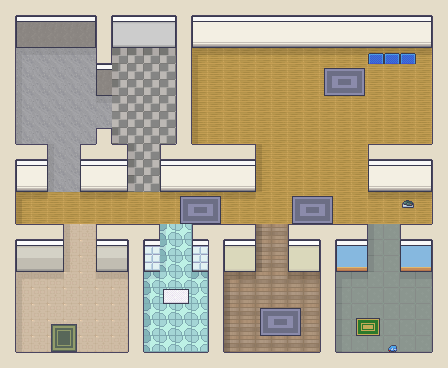
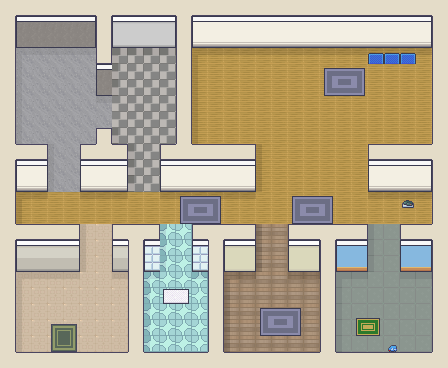
Clean up every Drill sprite: centre wall art, remove all overlaps and wall crossings, and rearrange the rooms that did not fit

Changed region(s): [[0.125, 0.5978, 0.25, 0.7473]]

diff --git a/src/core/drill-items.ts b/src/core/drill-items.ts
@@ -30,41 +30,41 @@ export const DRILL_SECONDS = 60;
 export const DRILL_ITEMS: DrillItem[] = [
   // living room
   { id: 'photos', name: 'family photos', room: 'living room', weight: 8, why: 'Photos cannot be replaced, and the CFA says to take them.', x: 25.6, y: 8.2 },
-  { id: 'television', name: 'television', room: 'living room', weight: -10, why: 'A television is heavy, slow to carry and replaceable.', x: 21.5, y: 2.9 },
-  { id: 'console', name: 'games console', room: 'living room', weight: -10, why: 'A games console takes room in the car that water or a blanket needs.', x: 20.4, y: 3.6 },
-  { id: 'painting', name: 'framed painting', room: 'living room', weight: -10, why: 'A large frame takes two hands and most of a boot.', x: 25.7, y: 2.55 },
-  { id: 'boardgame', name: 'box of toy blocks', room: 'living room', weight: 0, why: 'Toys do no harm, and do not help you get out.', x: 21.6, y: 5.1 },
-  { id: 'lamp', name: 'floor lamp', room: 'living room', weight: -10, why: 'A floor lamp fills the back seat and helps no one.', x: 26.4, y: 4.3 },
+  { id: 'television', name: 'television', room: 'living room', weight: -10, why: 'A television is heavy, slow to carry and replaceable.', x: 21.5, y: 2.62 },
+  { id: 'console', name: 'games console', room: 'living room', weight: -10, why: 'A games console takes room in the car that water or a blanket needs.', x: 20.8, y: 3.65 },
+  { id: 'painting', name: 'framed painting', room: 'living room', weight: -10, why: 'A large frame takes two hands and most of a boot.', x: 26.0, y: 2.375 },
+  { id: 'boardgame', name: 'box of toy blocks', room: 'living room', weight: 0, why: 'Toys do no harm, and do not help you get out.', x: 21.5, y: 5.6 },
+  { id: 'lamp', name: 'floor lamp', room: 'living room', weight: -10, why: 'A floor lamp fills the back seat and helps no one.', x: 23.5, y: 6.9 },
   // kitchen
-  { id: 'water', name: 'drinking water', room: 'kitchen', weight: 10, why: 'The CFA says to take enough water. Heat and smoke dry you out fast.', x: 13.3, y: 3.35 },
+  { id: 'water', name: 'drinking water', room: 'kitchen', weight: 10, why: 'The CFA says to take enough water. Heat and smoke dry you out fast.', x: 13.45, y: 3.35 },
   { id: 'kettle', name: 'kettle', room: 'kitchen', weight: 0, why: 'A kettle changes nothing either way.', x: 14.5, y: 3.35 },
   { id: 'pet', name: 'pet basket and food', room: 'kitchen', weight: 8, why: 'Pets need space in the car and their own food. The CFA says to plan for them.', x: 12.6, y: 8.7 },
   { id: 'plant', name: 'houseplant', room: 'kitchen', weight: -10, why: 'A plant is a pot of soil in a car full of people.', x: 18.4, y: 8.7 },
   // laundry
-  { id: 'blanket', name: 'wool blanket', room: 'laundry', weight: 10, why: 'The CFA says to keep wool blankets in the car. Wool shields you from radiant heat.', x: 8.5, y: 2.75 },
+  { id: 'blanket', name: 'wool blanket', room: 'laundry', weight: 10, why: 'The CFA says to keep wool blankets in the car. Wool shields you from radiant heat.', x: 7.6, y: 2.75 },
   { id: 'batteries', name: 'spare batteries', room: 'laundry', weight: 8, why: 'Spare batteries keep the radio and torch going. They are on the CFA list.', x: 10.4, y: 3.6 },
-  { id: 'sanitiser', name: 'hand sanitiser', room: 'laundry', weight: 8, why: 'Hand sanitiser and wipes are on the CFA list for days away from home.', x: 7.5, y: 2.7 },
+  { id: 'sanitiser', name: 'hand sanitiser', room: 'laundry', weight: 8, why: 'Hand sanitiser and wipes are on the CFA list for days away from home.', x: 9.6, y: 3.3 },
   // garage
   { id: 'torch', name: 'torch', room: 'garage', weight: 10, why: 'A powerful torch is on the CFA list. Smoke makes midday dark.', x: 1.6, y: 3.5 },
   { id: 'radio', name: 'battery radio', room: 'garage', weight: 10, why: 'A battery radio is on the CFA list. It works when the phone network does not.', x: 2.9, y: 3.5 },
-  { id: 'toolbox', name: 'toolbox', room: 'garage', weight: 0, why: 'A toolbox does nothing for the drive out.', x: 5.0, y: 4.9 },
+  { id: 'toolbox', name: 'toolbox', room: 'garage', weight: 0, why: 'A toolbox does nothing for the drive out.', x: 5.0, y: 4.95 },
   // main bedroom
   { id: 'medicines', name: 'medicines', room: 'main bedroom', weight: 10, why: 'Medicines are the first thing on the CFA list. A pharmacy may be closed for days.', x: 1.5, y: 17.3 },
   { id: 'overnight', name: 'overnight bag and toiletries', room: 'main bedroom', weight: 8, why: 'A change of clothes and toiletries are on the CFA list.', x: 5.4, y: 21.7 },
-  { id: 'pillow', name: 'pillow', room: 'main bedroom', weight: 0, why: 'A pillow is comfort, not readiness.', x: 2.6, y: 17.9 },
-  { id: 'clothes', name: 'long sleeved cotton clothes', room: 'main bedroom', weight: 10, why: 'The CFA says to wear long sleeves in natural fibres. Radiant heat burns through thin clothes.', x: 7.5, y: 19.4 },
+  { id: 'pillow', name: 'pillow', room: 'main bedroom', weight: 0, why: 'A pillow is comfort, not readiness.', x: 3.0, y: 17.6 },
+  { id: 'clothes', name: 'long sleeved cotton clothes', room: 'main bedroom', weight: 10, why: 'The CFA says to wear long sleeves in natural fibres. Radiant heat burns through thin clothes.', x: 7.5, y: 17.2 },
   // bathroom
-  { id: 'firstaid', name: 'first aid kit', room: 'bathroom', weight: 10, why: 'A first aid kit is on the CFA list. Help can be hours away.', x: 12.4, y: 17.3 },
+  { id: 'firstaid', name: 'first aid kit', room: 'bathroom', weight: 10, why: 'A first aid kit is on the CFA list. Help can be hours away.', x: 12.5, y: 17.3 },
   { id: 'masks', name: 'P2 masks', room: 'bathroom', weight: 10, why: 'P2 masks are on the CFA list. Smoke arrives long before flame.', x: 9.5, y: 21.3 },
   // study
-  { id: 'papers', name: 'passport and papers', room: 'study', weight: 10, why: 'Passports, wills and insurance papers are on the CFA list and are hard to replace.', x: 14.4, y: 17.4 },
-  { id: 'laptop', name: 'computer', room: 'study', weight: 0, why: 'A computer is neither help nor harm.', x: 15.2, y: 17.4 },
-  { id: 'memorystick', name: 'memory stick of scanned papers', room: 'study', weight: 8, why: 'The CFA says to scan papers and photos onto a memory stick.', x: 15.9, y: 17.5 },
+  { id: 'papers', name: 'passport and papers', room: 'study', weight: 10, why: 'Passports, wills and insurance papers are on the CFA list and are hard to replace.', x: 14.57, y: 17.4 },
+  { id: 'laptop', name: 'computer', room: 'study', weight: 0, why: 'A computer is neither help nor harm.', x: 15.66, y: 17.4 },
+  { id: 'memorystick', name: 'memory stick of scanned papers', room: 'study', weight: 8, why: 'The CFA says to scan papers and photos onto a memory stick.', x: 14.5, y: 21.3 },
   { id: 'books', name: 'books', room: 'study', weight: 0, why: 'Books are replaceable and take no real space.', x: 18.9, y: 17.4 },
-  { id: 'cash', name: 'cash and cards', room: 'study', weight: 8, why: 'Cash and cards are on the CFA list. Power and card readers may be out.', x: 14.9, y: 21.3 },
+  { id: 'cash', name: 'cash and cards', room: 'study', weight: 8, why: 'Cash and cards are on the CFA list. Power and card readers may be out.', x: 15.3, y: 21.3 },
   // second bedroom
   { id: 'charger', name: 'phone and charger', room: 'second bedroom', weight: 10, why: 'The CFA says to take your phone and charger. It is how you hear what is happening.', x: 22.5, y: 17.3 },
-  { id: 'guitar', name: 'guitar', room: 'second bedroom', weight: -10, why: 'A guitar takes a whole seat.', x: 26.4, y: 18.1 },
+  { id: 'guitar', name: 'guitar', room: 'second bedroom', weight: -10, why: 'A guitar takes a whole seat.', x: 26.4, y: 19.2 },
   { id: 'football', name: 'ball', room: 'second bedroom', weight: 0, why: 'A ball is harmless and useless here.', x: 23.6, y: 20.6 },
 ];
 

diff --git a/src/core/drill-layout.ts b/src/core/drill-layout.ts
@@ -25,9 +25,9 @@ export const GRID = [
   '###gg###uu######lllllll#####',
   '#hhhhhhhhhhhhhhhhhhhhhhhhhh#',
   '#hhhhhhhhhhhhhhhhhhhhhhhhhh#',
-  '####mm####bb####ss#####cc###',
-  '####mm####bb####ss#####cc###',
-  '####mm####bb####ss#####cc###',
+  '#####mm###bb####ss#####cc###',
+  '#####mm###bb####ss#####cc###',
+  '#####mm###bb####ss#####cc###',
   '#mmmmmmm#bbbb#ssssss#cccccc#',
   '#mmmmmmm#bbbb#ssssss#cccccc#',
   '#mmmmmmm#bbbb#ssssss#cccccc#',
@@ -58,14 +58,15 @@ export const ROOM_OF: Record<string, DrillRoom> = {
  *  cells it blocks. The sprite is drawn centred on the footprint and standing
  *  on its bottom edge, so a tall piece rises over the cells behind it. A flat
  *  piece (a rug) is painted into the floor and blocks nothing. A wall piece
- *  (a picture, a window) sits on a wall cell and is drawn raised by WALL_LIFT.
+ *  (a picture, a window) sits on a wall cell and is centred on the wall face.
  *  `nudge` moves only the picture sideways, in pixels, for a sprite wider than
  *  its footprint that would otherwise overhang a wall. */
 export type Piece = { sprite: string; x: number; y: number; w: number; h: number; flat?: true; wall?: true; nudge?: number };
 
-/** How far above the floor line a thing hung on a wall is drawn, in pixels,
- *  so a picture or a window sits on the wall, not on the skirting. */
-export const WALL_LIFT = 7;
+/** How far above the floor line a thing of this height hung on a wall is
+ *  drawn, in pixels: centred on the two tile wall face, so every picture and
+ *  window hangs on one line, clear of the skirting and the ceiling. */
+export const wallLift = (height: number): number => Math.max(1, Math.round((2 * TILE - height) / 2));
 
 export const FURNITURE: Piece[] = [
   // living room: the front door and its mat, the television wall, a sofa facing it
@@ -77,7 +78,7 @@ export const FURNITURE: Piece[] = [
   { sprite: 'fern', x: 19, y: 3, w: 1, h: 1 },
   { sprite: 'tvUnit', x: 20, y: 3, w: 2, h: 1 },
   { sprite: 'sofa', x: 20, y: 6, w: 3, h: 1 },
-  { sprite: 'armchair', x: 26, y: 5, w: 1, h: 1 },
+  { sprite: 'armchair', x: 26, y: 5, w: 1, h: 1, nudge: -2 },
   { sprite: 'sideboard', x: 25, y: 8, w: 2, h: 1 },
   { sprite: 'palm', x: 19, y: 8, w: 1, h: 1 },
   // kitchen
@@ -90,8 +91,7 @@ export const FURNITURE: Piece[] = [
   { sprite: 'chair', x: 13, y: 6, w: 1, h: 1 },
   { sprite: 'chairLeft', x: 16, y: 6, w: 1, h: 1 },
   // laundry
-  { sprite: 'washer', x: 7, y: 3, w: 1, h: 1 },
-  { sprite: 'washer', x: 8, y: 3, w: 1, h: 1 },
+  { sprite: 'washer', x: 7, y: 3, w: 1, h: 1, nudge: 2 },
   { sprite: 'shelf', x: 9, y: 3, w: 2, h: 1 },
   { sprite: 'bucket', x: 10, y: 8, w: 1, h: 1 },
   // garage
@@ -102,36 +102,36 @@ export const FURNITURE: Piece[] = [
   // hall: pictures on the walls and a runner on the floor, nothing in the way
   { sprite: 'fern', x: 1, y: 12, w: 1, h: 1 },
   { sprite: 'landscape', x: 6, y: 11, w: 1, h: 1, wall: true },
-  { sprite: 'frameA', x: 11, y: 11, w: 1, h: 1, wall: true },
-  { sprite: 'frameB', x: 13, y: 11, w: 1, h: 1, wall: true },
-  { sprite: 'frameC', x: 15, y: 11, w: 1, h: 1, wall: true },
+  { sprite: 'frameA', x: 10, y: 11, w: 1, h: 1, wall: true, nudge: 8 },
+  { sprite: 'frameB', x: 12, y: 11, w: 1, h: 1, wall: true, nudge: 8 },
+  { sprite: 'frameC', x: 14, y: 11, w: 1, h: 1, wall: true, nudge: 8 },
+  { sprite: 'landscape', x: 24, y: 11, w: 1, h: 1, wall: true, nudge: 8 },
   { sprite: 'rug', x: 11, y: 12, w: 3, h: 2, flat: true },
   { sprite: 'rug', x: 18, y: 12, w: 3, h: 2, flat: true },
   { sprite: 'shoes', x: 25, y: 12, w: 1, h: 1, flat: true },
   { sprite: 'smallPlant', x: 26, y: 12, w: 1, h: 1 },
   // main bedroom
-  { sprite: 'curtains', x: 1, y: 16, w: 2, h: 1, wall: true },
+  { sprite: 'window', x: 2, y: 16, w: 2, h: 1, wall: true },
   { sprite: 'greenRug', x: 3, y: 20, w: 2, h: 2, flat: true },
   { sprite: 'nightstand', x: 1, y: 17, w: 1, h: 1 },
-  { sprite: 'bed', x: 2, y: 17, w: 2, h: 2 },
-  { sprite: 'wardrobe', x: 6, y: 17, w: 2, h: 1 },
-  { sprite: 'dresser', x: 7, y: 19, w: 1, h: 1 },
+  { sprite: 'bed', x: 2, y: 17, w: 3, h: 2 },
+  { sprite: 'dresser', x: 7, y: 17, w: 1, h: 1 },
   { sprite: 'basket', x: 1, y: 21, w: 1, h: 1 },
-  { sprite: 'standMirror', x: 7, y: 21, w: 1, h: 1 },
+  { sprite: 'standMirror', x: 7, y: 21, w: 1, h: 1, nudge: -3 },
   // bathroom
   { sprite: 'bathMat', x: 10, y: 18, w: 2, h: 1, flat: true },
   { sprite: 'toilet', x: 9, y: 17, w: 1, h: 1 },
-  { sprite: 'towels', x: 12, y: 17, w: 1, h: 1 },
+  { sprite: 'dresser', x: 12, y: 17, w: 1, h: 1 },
   { sprite: 'tub', x: 11, y: 20, w: 2, h: 2 },
   { sprite: 'dresser', x: 9, y: 21, w: 1, h: 1 },
   // study
   { sprite: 'rug', x: 16, y: 19, w: 3, h: 2, flat: true },
   { sprite: 'desk', x: 14, y: 17, w: 2, h: 1, nudge: 3 },
-  { sprite: 'officeChair', x: 15, y: 18, w: 1, h: 1 },
+  { sprite: 'officeChair', x: 15, y: 19, w: 1, h: 1 },
   { sprite: 'bookshelf', x: 18, y: 17, w: 2, h: 1 },
   { sprite: 'sideboard', x: 14, y: 21, w: 2, h: 1 },
   { sprite: 'globe', x: 19, y: 21, w: 1, h: 1 },
-  { sprite: 'frameC', x: 14, y: 16, w: 1, h: 1, wall: true },
+  { sprite: 'frameC', x: 14, y: 16, w: 1, h: 1, wall: true, nudge: 8 },
   // second bedroom
   { sprite: 'worldMap', x: 25, y: 16, w: 2, h: 1, wall: true },
   { sprite: 'kidRug', x: 22, y: 19, w: 2, h: 2, flat: true },

diff --git a/src/ui/Drill/atlas.ts b/src/ui/Drill/atlas.ts
@@ -12,92 +12,89 @@ export const ATLAS: Record<string, Frame> = {
   arrow: [1, 121, 16, 16],
   door: [1, 139, 16, 48, 5],
   window: [1, 189, 25, 20],
-  curtains: [1, 211, 35, 27],
-  landscape: [1, 240, 21, 13],
-  frameA: [1, 255, 13, 15],
-  frameB: [1, 272, 13, 15],
-  frameC: [1, 289, 13, 15],
-  worldMap: [1, 306, 32, 19],
-  hangingPlant: [1, 327, 16, 18],
-  rug: [1, 347, 41, 28],
-  greenRug: [1, 377, 26, 28],
-  kidRug: [1, 407, 24, 18],
-  kitchenRug: [1, 427, 30, 30],
-  bathMat: [1, 459, 26, 15],
-  doormat: [1, 476, 16, 11],
-  shoes: [1, 489, 12, 8],
-  toyCar: [1, 499, 9, 7],
-  tvUnit: [1, 508, 32, 21],
-  table: [1, 531, 24, 23],
-  sofa: [1, 556, 47, 20],
-  armchair: [1, 578, 19, 26],
-  bookshelf: [1, 606, 25, 30],
-  fern: [1, 638, 16, 30],
-  palm: [1, 670, 23, 30],
-  bushyPlant: [1, 702, 18, 15],
-  smallPlant: [1, 719, 13, 17],
-  basket: [1, 738, 15, 15],
-  standMirror: [1, 755, 20, 31],
-  globe: [1, 788, 13, 13],
-  sideboard: [1, 803, 27, 23],
-  nightstand: [1, 828, 16, 20],
-  wardrobe: [1, 850, 27, 38],
-  fridge: [1, 890, 13, 37],
-  cabinet: [1, 929, 29, 14],
-  sink: [1, 945, 24, 14],
-  stove: [1, 961, 16, 28],
-  dining: [1, 991, 30, 41],
-  chair: [1, 1034, 13, 21],
-  chairLeft: [1, 1057, 13, 21],
-  washer: [1, 1080, 20, 28],
-  shelf: [1, 1110, 28, 33],
-  washing: [1, 1145, 27, 26],
-  bucket: [1, 1173, 13, 13],
-  toilet: [1, 1188, 14, 33],
-  towels: [1, 1223, 28, 29],
-  tub: [1, 1254, 25, 37],
-  bench: [1, 1293, 46, 24],
-  rods: [1, 1319, 32, 30],
-  pingPong: [1, 1351, 33, 52],
-  boxes: [1, 1405, 15, 25],
-  bed: [1, 1432, 40, 32],
-  singleBed: [1, 1466, 16, 30],
-  desk: [1, 1498, 38, 21],
-  officeChair: [1, 1521, 12, 24],
-  dresser: [1, 1547, 14, 18],
-  drum: [1, 1567, 20, 19],
-  teddy: [1, 1588, 15, 15],
-  photos: [1, 1605, 13, 15],
-  television: [1, 1622, 48, 23, 24],
-  console: [1, 1647, 19, 16],
-  painting: [1, 1665, 28, 13],
-  boardgame: [1, 1680, 16, 22],
-  lamp: [1, 1704, 15, 25],
-  water: [1, 1731, 9, 17],
-  kettle: [1, 1750, 11, 10],
-  pet: [1, 1762, 18, 15],
-  plant: [1, 1779, 12, 14],
-  blanket: [1, 1795, 16, 18],
-  batteries: [1, 1815, 13, 7],
-  sanitiser: [1, 1824, 9, 10],
-  torch: [1, 1836, 10, 9],
-  radio: [1, 1847, 15, 13],
-  toolbox: [1, 1862, 30, 15],
-  medicines: [1, 1879, 11, 11],
-  overnight: [1, 1892, 14, 14],
-  pillow: [1, 1908, 13, 13],
-  clothes: [1, 1923, 13, 16],
-  firstaid: [1, 1941, 14, 13],
-  masks: [1, 1956, 11, 8],
-  papers: [1, 1966, 16, 12],
-  laptop: [1, 1980, 15, 12],
-  memorystick: [1, 1994, 11, 10],
-  books: [1, 2006, 13, 11],
-  cash: [1, 2019, 10, 6],
-  charger: [1, 2027, 16, 12],
-  guitar: [1, 2041, 15, 30],
-  football: [1, 2073, 11, 11],
+  landscape: [1, 211, 21, 13],
+  frameA: [1, 226, 13, 15],
+  frameB: [1, 243, 13, 15],
+  frameC: [1, 260, 13, 15],
+  worldMap: [1, 277, 32, 19],
+  hangingPlant: [1, 298, 16, 18],
+  rug: [1, 318, 41, 28],
+  greenRug: [1, 348, 26, 28],
+  kidRug: [1, 378, 24, 18],
+  kitchenRug: [1, 398, 30, 30],
+  bathMat: [1, 430, 26, 15],
+  doormat: [1, 447, 16, 11],
+  shoes: [1, 460, 12, 8],
+  toyCar: [1, 470, 9, 7],
+  tvUnit: [1, 479, 32, 21],
+  table: [1, 502, 24, 23],
+  sofa: [1, 527, 47, 20],
+  armchair: [1, 549, 19, 26],
+  bookshelf: [1, 577, 25, 30],
+  fern: [1, 609, 16, 30],
+  palm: [1, 641, 23, 30],
+  bushyPlant: [1, 673, 18, 15],
+  smallPlant: [1, 690, 13, 17],
+  basket: [1, 709, 15, 15],
+  standMirror: [1, 726, 20, 31],
+  globe: [1, 759, 13, 13],
+  sideboard: [1, 774, 27, 23],
+  nightstand: [1, 799, 16, 20],
+  fridge: [1, 821, 13, 37],
+  cabinet: [1, 860, 29, 14],
+  sink: [1, 876, 24, 14],
+  stove: [1, 892, 16, 28],
+  dining: [1, 922, 30, 41],
+  chair: [1, 965, 13, 21],
+  chairLeft: [1, 988, 13, 21],
+  washer: [1, 1011, 20, 28],
+  shelf: [1, 1041, 28, 33],
+  washing: [1, 1076, 27, 26],
+  bucket: [1, 1104, 13, 13],
+  toilet: [1, 1119, 14, 33],
+  tub: [1, 1154, 25, 37],
+  bench: [1, 1193, 46, 24],
+  rods: [1, 1219, 32, 30],
+  pingPong: [1, 1251, 33, 52],
+  boxes: [1, 1305, 15, 25],
+  bed: [1, 1332, 40, 32],
+  singleBed: [1, 1366, 16, 30],
+  desk: [1, 1398, 38, 21],
+  officeChair: [1, 1421, 12, 24],
+  dresser: [1, 1447, 14, 18],
+  drum: [1, 1467, 20, 19],
+  teddy: [1, 1488, 15, 15],
+  photos: [1, 1505, 13, 15],
+  television: [1, 1522, 48, 23, 24],
+  console: [1, 1547, 19, 16],
+  painting: [1, 1565, 28, 13],
+  boardgame: [1, 1580, 16, 22],
+  lamp: [1, 1604, 15, 25],
+  water: [1, 1631, 9, 17],
+  kettle: [1, 1650, 11, 10],
+  pet: [1, 1662, 18, 15],
+  plant: [1, 1679, 12, 14],
+  blanket: [1, 1695, 16, 18],
+  batteries: [1, 1715, 13, 7],
+  sanitiser: [1, 1724, 9, 10],
+  torch: [1, 1736, 10, 9],
+  radio: [1, 1747, 15, 13],
+  toolbox: [1, 1762, 30, 15],
+  medicines: [1, 1779, 11, 11],
+  overnight: [1, 1792, 14, 14],
+  pillow: [1, 1808, 13, 13],
+  clothes: [1, 1823, 13, 16],
+  firstaid: [1, 1841, 14, 13],
+  masks: [1, 1856, 11, 8],
+  papers: [1, 1866, 16, 12],
+  laptop: [1, 1880, 15, 12],
+  memorystick: [1, 1894, 11, 10],
+  books: [1, 1906, 13, 11],
+  cash: [1, 1919, 10, 6],
+  charger: [1, 1927, 16, 12],
+  guitar: [1, 1941, 15, 30],
+  football: [1, 1973, 11, 11],
 };
 
 /** The size of the whole sheet, for drawing one sprite as a css background. */
-export const SHEET = [1154, 2086] as const;
+export const SHEET = [1154, 1986] as const;

diff --git a/src/ui/Drill/render.ts b/src/ui/Drill/render.ts
@@ -6,7 +6,7 @@
 
 import { BAG_LIMIT, DRILL_ITEMS, itemById, type DrillItem } from '../../core/drill-items';
 import { MAT_CENTRE, restingOrder } from '../../core/drill-house';
-import { FURNITURE, GRID, MAT, TILE, WALL_LIFT } from '../../core/drill-layout';
+import { FURNITURE, GRID, MAT, TILE, wallLift } from '../../core/drill-layout';
 import { ATLAS } from './atlas';
 
 /** The two baked pictures, and a copy of the sprite sheet with every pixel
@@ -166,7 +166,7 @@ function drawStanding(view: View, art: Art, scene: Scene): void {
     const frame = piece.sprite === 'door' ? Math.round(scene.door * 4) : 0;
     things.push({
       order: piece.y + piece.h,
-      draw: () => drawSprite(view, art, piece.sprite, (piece.x + piece.w / 2) * TILE + (piece.nudge ?? 0), (piece.y + piece.h) * TILE - (piece.wall ? WALL_LIFT : 0), frame),
+      draw: () => drawSprite(view, art, piece.sprite, (piece.x + piece.w / 2) * TILE + (piece.nudge ?? 0), (piece.y + piece.h) * TILE - (piece.wall ? wallLift(ATLAS[piece.sprite][3]) : 0), frame),
     });
   }
   for (const item of DRILL_ITEMS) {
@@ -174,7 +174,7 @@ function drawStanding(view: View, art: Art, scene: Scene): void {
     things.push({ order: restingOrder(item.x, item.y), draw: () => drawItem(view, art, item, scene) });
     if (item.id === 'pet') {
       const frame = scene.calm ? 0 : Math.floor(scene.time * 6) % (ATLAS.cat[4] ?? 1);
-      things.push({ order: item.y, draw: () => drawSprite(view, art, 'cat', (item.x + 1.2) * TILE, item.y * TILE, frame) });
+      things.push({ order: item.y, draw: () => drawSprite(view, art, 'cat', (item.x + 1.5) * TILE, item.y * TILE, frame) });
     }
   }
   const figure = scene.figure;
@@ -192,7 +192,7 @@ function drawGlow(view: View, glow: number, time: number, calm: boolean): void {
   WINDOWS.forEach((piece, i) => {
     const flicker = calm ? 0.85 : 0.7 + 0.3 * Math.sin(time * 9 + i) * Math.sin(time * 3.7 + i * 2);
     const x = (piece.x + piece.w / 2) * TILE;
-    const y = (piece.y + piece.h) * TILE - WALL_LIFT;
+    const y = (piece.y + piece.h) * TILE - wallLift(ATLAS[piece.sprite][3]);
     ctx.fillStyle = `rgba(255, 110, 20, ${0.6 * glow * flicker})`;
     ctx.fillRect(x - 11, y - 18, 22, 16);
     const spill = ctx.createRadialGradient(x, y, 4, x, y, 64);
